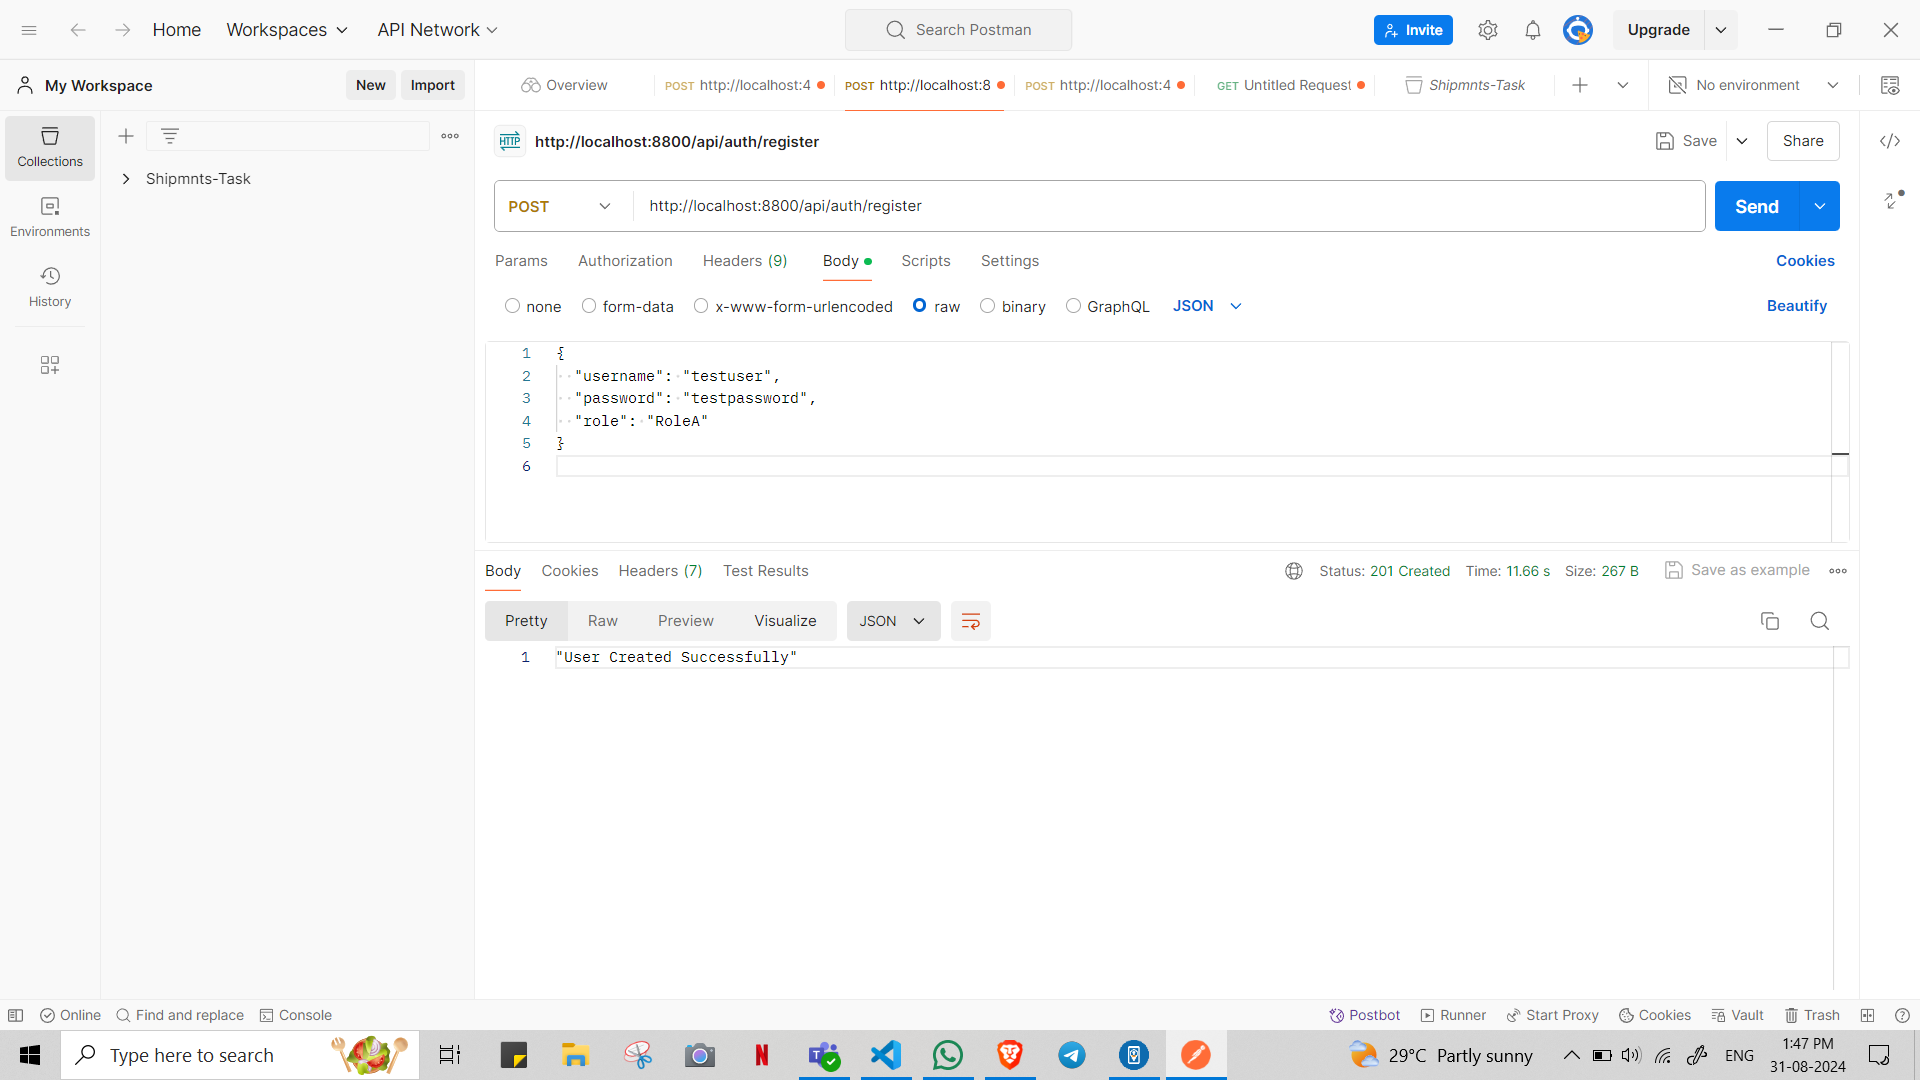
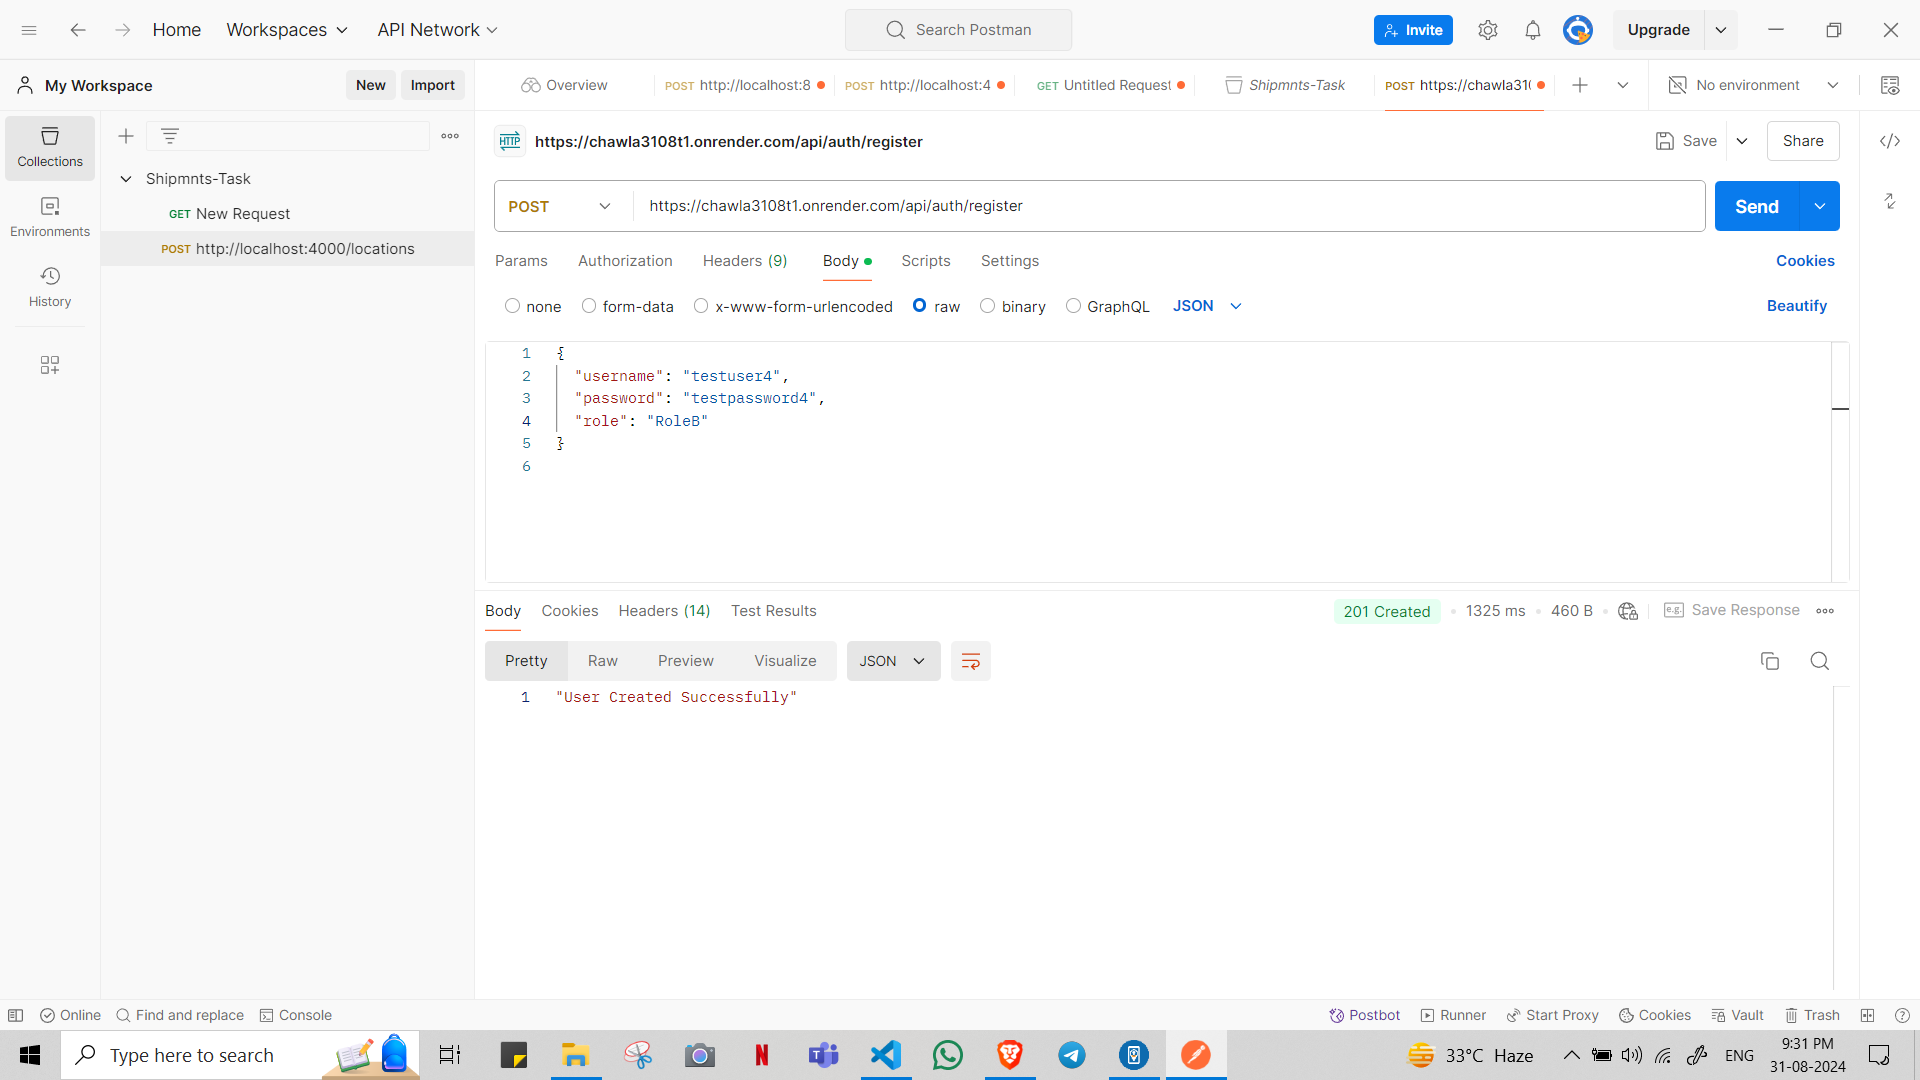
chore(backend): Fixed deployment for register api

diff --git a/middleware/authMiddleeware.js b/middleware/authMiddleeware.js
@@ -1,15 +1,15 @@
-const jwt=require('jsonwebtoken');
-module.exxports=function(req,res,next){
-const token=req.header("auth-token");
-if(!token){
-    return res.status(401).json("Access Denied")
+const jwt = require('jsonwebtoken');
 
-}
-try{
-    const decoded=jwt.verify(token,process.env.JWT_SECRET);
-    req.user=decoded;
-    next();
-}catch(err){
-    res.status(400).json("Invalid Token")
-}
+module.exports = function (req, res, next) {
+    const token = req.header("auth-token");
+    if (!token) {
+        return res.status(401).json("Access Denied")
+    }
+    try {
+        const decoded = jwt.verify(token, process.env.JWT_SECRET);
+        req.user = decoded;
+        next();
+    } catch (err) {
+        res.status(400).json("Invalid Token")
+    }
 };

diff --git a/Readme.md b/Readme.md
@@ -1,7 +1,4 @@
 ![alt text](image.png)
-![alt text](image-1.png)
-
-
 
 
 Build application with frontend and backend where you register a user and assign roles and permission to the user and based on roles display different view
